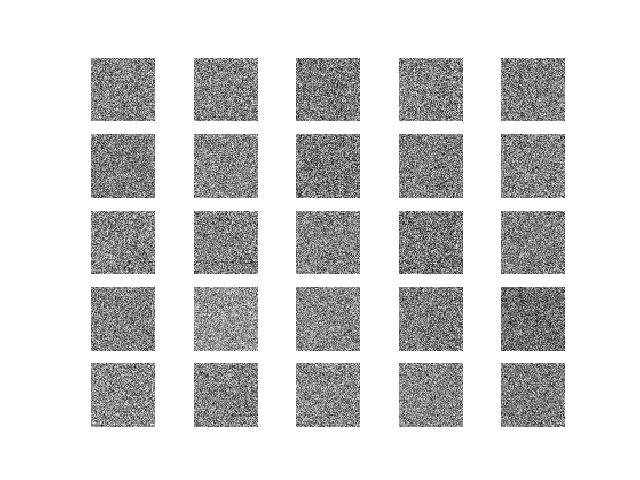
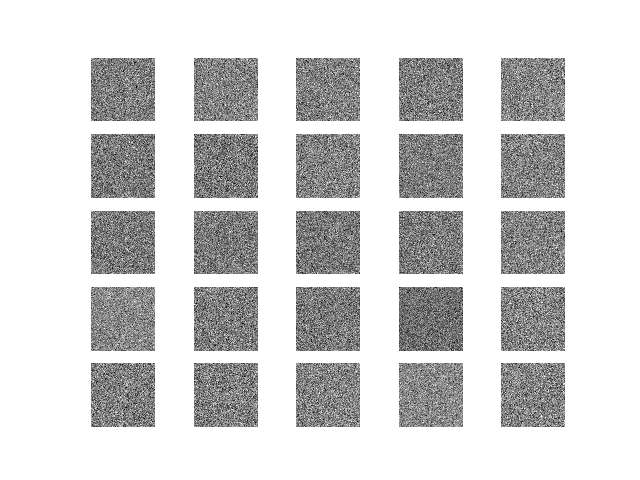
2nd run

diff --git a/GAN/GANFace.py b/GAN/GANFace.py
@@ -19,7 +19,7 @@ from keras.engine.network import Network      # Gambi
 # Setup do model
[1 lines of base64/hex data omitted]
 DATADIR = "/home/leonato/Projects/myGAN/databolso"
-IMG_SIZE = 56
+IMG_SIZE = 72 # 56
 EPOCHS = 150001
 BATCH_SIZE = 132
 
